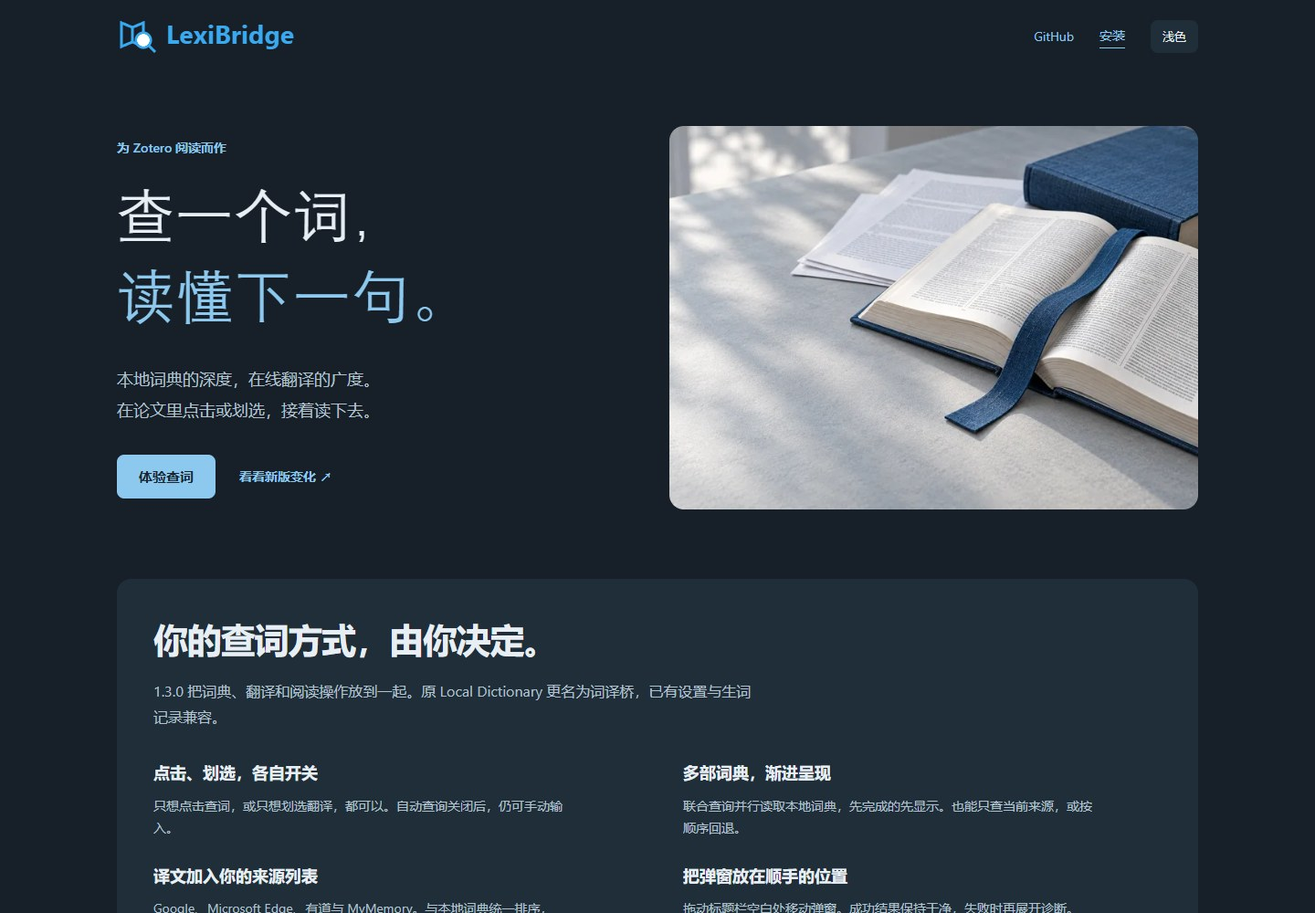
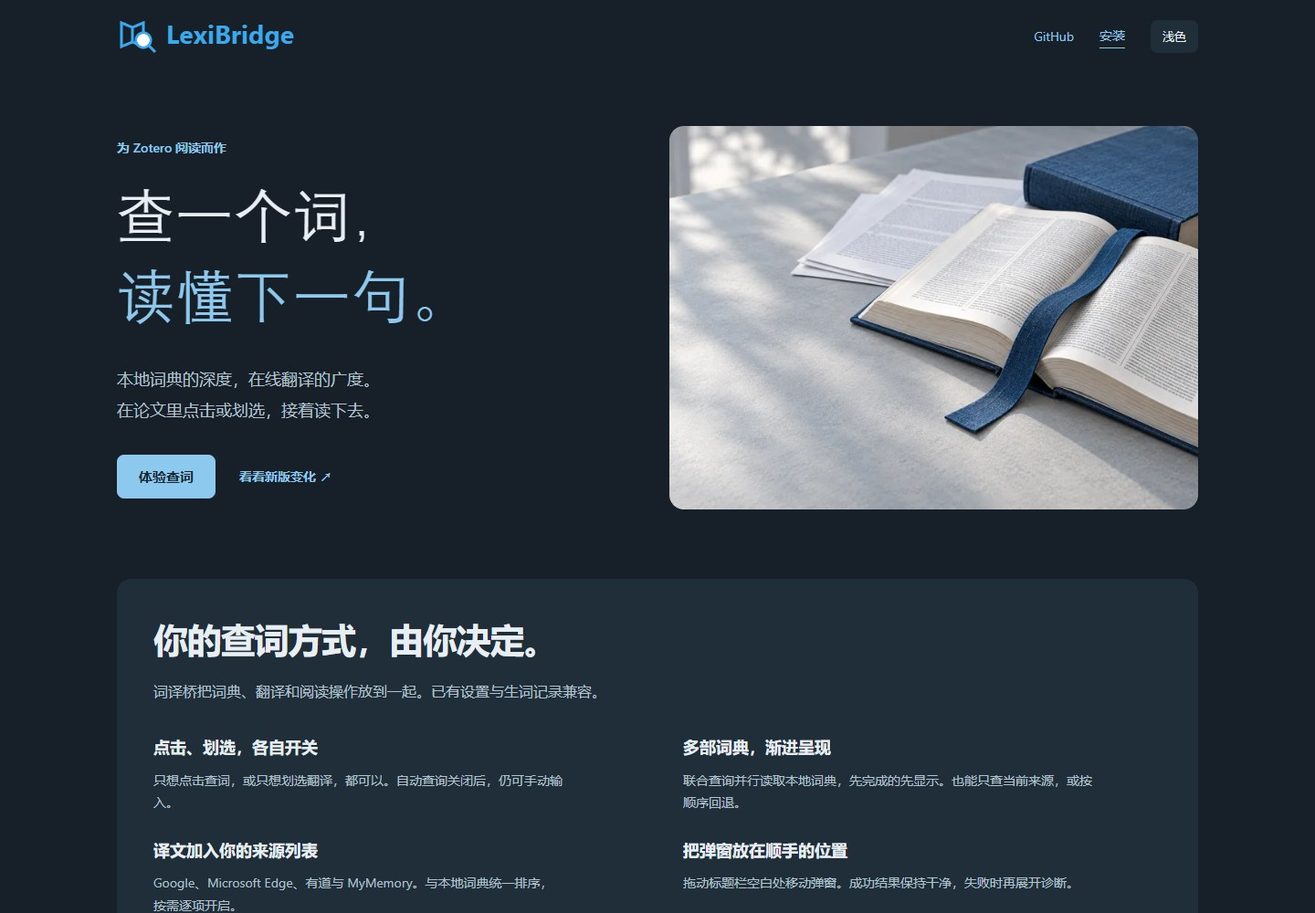
Publish LexiBridge 1.3.1 repository migration and simplify public documentation

Changed region(s): [[0.0938, 0.744, 0.5625, 1.0], [0.5, 0.806, 0.8438, 1.0]]

diff --git a/docs/lexibridge/index.html b/docs/lexibridge/index.html
@@ -3,8 +3,8 @@
 <meta charset="utf-8"><meta name="viewport" content="width=device-width,initial-scale=1">
 <title>LexiBridge 词译桥 | Zotero 查词与翻译</title>
 <meta name="description" content="在 Zotero 阅读中连接本地词典与在线翻译。独立点击与划选开关，多来源并行查询，按自己的顺序阅读释义。">
-<link rel="canonical" href="https://noahxie83.github.io/zotero-local-dictionary/lexibridge/">
-<meta property="og:title" content="LexiBridge · 词译桥"><meta property="og:description" content="查一个词，读懂下一句。Zotero 本地词典与在线翻译。"><meta property="og:image" content="https://noahxie83.github.io/zotero-local-dictionary/assets/cover.jpg">
+<link rel="canonical" href="https://noahxie83.github.io/zotero-lexibridge/lexibridge/">
+<meta property="og:title" content="LexiBridge · 词译桥"><meta property="og:description" content="查一个词，读懂下一句。Zotero 本地词典与在线翻译。"><meta property="og:image" content="https://noahxie83.github.io/zotero-lexibridge/assets/cover.jpg">
[1 lines of base64/hex data omitted]
 <style>:root{color-scheme:light;--bg:#fbfcfd;--surface:#f0f4f7;--paper:#fdfefe;--fg:#253440;--muted:#536575;--line:#d4dfe7;--accent:#246a96;--on-accent:#f8fbfe;--shadow:0 20px 64px #23435b10}
 :root[data-theme=dark]{color-scheme:dark;--bg:#172029;--surface:#202e3a;--paper:#1d2933;--fg:#e8eff4;--muted:#b1c1cd;--line:#405362;--accent:#8dc9ee;--on-accent:#172530;--shadow:0 20px 64px #0b172420}
@@ -21,18 +21,18 @@ h2{text-wrap:balance;font-size:clamp(27px,2.7vw,38px);line-height:1.35;letter-sp
 @media(max-width:374px){.wrap{padding-inline:16px}.brand img{width:146px}header nav{gap:9px}h1{font-size:43px}.button{padding-inline:18px}.hero-actions{gap:16px}.text-link{font-size:13px}.release,.online{padding:24px 20px}}
 </style></head><body>
 <a class="skip-link" href="#try">跳到查词示例</a>
[2 lines of base64/hex data omitted]
 <main class="wrap">
 <section class="lead" aria-labelledby="hero-title"><div class="hero-copy"><p class="eyebrow">为 Zotero 阅读而作</p><h1 id="hero-title"><span>查一个词，</span><span>读懂下一句。</span></h1><p class="hero-intro">本地词典的深度，在线翻译的广度。<br>在论文里点击或划选，接着读下去。</p><div class="hero-actions"><a class="button" href="#try">体验查词</a><a class="text-link" href="#whats-new">看看新版变化 ↗</a></div></div><img class="hero-image" src="../assets/reading-desk.webp" srcset="../assets/reading-desk-768.webp 768w, ../assets/reading-desk.webp 1536w" sizes="(max-width:767px) calc(100vw - 40px), (max-width:1264px) 44vw, 550px" alt="蓝色书签搭在打开的词典与研究纸页之间" width="1536" height="1024" fetchpriority="high" decoding="async"></section>
-<section class="release reveal" id="whats-new" aria-labelledby="new-title"><h2 id="new-title">你的查词方式，由你决定。</h2><p class="section-intro">1.3.0 把词典、翻译和阅读操作放到一起。原 Local Dictionary 更名为词译桥，已有设置与生词记录兼容。</p><div class="release-grid">
+<section class="release reveal" id="whats-new" aria-labelledby="new-title"><h2 id="new-title">你的查词方式，由你决定。</h2><p class="section-intro">词译桥把词典、翻译和阅读操作放到一起。已有设置与生词记录兼容。</p><div class="release-grid">
 <article><h3>点击、划选，各自开关</h3><p>只想点击查词，或只想划选翻译，都可以。自动查询关闭后，仍可手动输入。</p></article><article><h3>多部词典，渐进呈现</h3><p>联合查询并行读取本地词典，先完成的先显示。也能只查当前来源，或按顺序回退。</p></article><article><h3>译文加入你的来源列表</h3><p>Google、Microsoft Edge、有道与 MyMemory。与本地词典统一排序，按需逐项开启。</p></article><article><h3>把弹窗放在顺手的位置</h3><p>拖动标题栏空白处移动弹窗。成功结果保持干净，失败时再展开诊断。</p></article></div></section>
 <section class="demo reveal" id="try" aria-labelledby="demo-title"><h2 id="demo-title">点一下，看看词典的另一面。</h2><p class="section-intro">这是可操作的本地查词示例。点击蓝色词语，或划选词组，比较两部词典的原有排版。</p><nav class="cases" aria-label="选择使用示例"><button type="button" data-case="0" aria-pressed="true">点击一个词</button><button type="button" data-case="1" aria-pressed="false">拼接断行词</button><button type="button" data-case="2" aria-pressed="false">词组与批注</button></nav>
-<div class="workspace"><div><p class="label">阅读区 / 原创示例</p><article class="paper" id="paper"><h3>Representations<br>&amp; connections</h3><p>A <button class="word" type="button" data-word="network">network</button> connects units that exchange information. We study how representations change across its layers.</p><p>The model learns a <span class="line-word">transfor-<br>mation</span> from inputs to outputs. A <button class="word" type="button" data-word="neural network">neural network</button> combines these operations.</p><small>点击蓝色词语，或划选这里的词 / 词组。<br>真实 PDF 需有文字层；单击不会跨行补全。</small></article></div><div><p class="label">词条区 / 实际解析与排版组件</p><div id="result" aria-live="polite"></div><noscript>交互示例需要 JavaScript。使用上方安装入口获取插件。</noscript></div></div><p class="hint" id="hint" role="status"></p><a class="preview-link" href="https://noahxie83.github.io/zotero-local-dictionary/interface-preview.html">打开完整弹窗与设置页预览 ↗</a></section>
-<section class="reading-flow reveal" aria-labelledby="flow-title"><div><h2 id="flow-title">一组来源，<br>三种阅读节奏。</h2><p class="section-intro">把常用词典排在前面，再按需要加入翻译。</p><a class="text-link" href="https://github.com/Noahxie83/zotero-local-dictionary/blob/main/docs/USER_GUIDE.md">配置查询来源 ↗</a></div><div class="feature-list"><details open><summary>当前来源：专注一份释义</summary><p>只查询选中的词典或翻译引擎，适合有明确来源偏好的阅读。</p></details><details><summary>依次回退：按你的顺序继续找</summary><p>沿已启用来源的顺序查询，获得首个结果后停止。来源顺序同时适用于本地词典与在线服务。</p></details><details><summary>联合查询：把不同解释放在一起</summary><p>多个来源分别呈现结果。本地查询采用有界并发；在线请求限制并发，避免无节制发起请求。</p></details></div></section>
+<div class="workspace"><div><p class="label">阅读区 / 原创示例</p><article class="paper" id="paper"><h3>Representations<br>&amp; connections</h3><p>A <button class="word" type="button" data-word="network">network</button> connects units that exchange information. We study how representations change across its layers.</p><p>The model learns a <span class="line-word">transfor-<br>mation</span> from inputs to outputs. A <button class="word" type="button" data-word="neural network">neural network</button> combines these operations.</p><small>点击蓝色词语，或划选这里的词 / 词组。<br>真实 PDF 需有文字层；单击不会跨行补全。</small></article></div><div><p class="label">词条区 / 实际解析与排版组件</p><div id="result" aria-live="polite"></div><noscript>交互示例需要 JavaScript。使用上方安装入口获取插件。</noscript></div></div><p class="hint" id="hint" role="status"></p><a class="preview-link" href="https://noahxie83.github.io/zotero-lexibridge/interface-preview.html">打开完整弹窗与设置页预览 ↗</a></section>
+<section class="reading-flow reveal" aria-labelledby="flow-title"><div><h2 id="flow-title">一组来源，<br>三种阅读节奏。</h2><p class="section-intro">把常用词典排在前面，再按需要加入翻译。</p><a class="text-link" href="https://github.com/Noahxie83/zotero-lexibridge/blob/main/docs/USER_GUIDE.md">配置查询来源 ↗</a></div><div class="feature-list"><details open><summary>当前来源：专注一份释义</summary><p>只查询选中的词典或翻译引擎，适合有明确来源偏好的阅读。</p></details><details><summary>依次回退：按你的顺序继续找</summary><p>沿已启用来源的顺序查询，获得首个结果后停止。来源顺序同时适用于本地词典与在线服务。</p></details><details><summary>联合查询：把不同解释放在一起</summary><p>多个来源分别呈现结果。本地查询采用有界并发；在线请求限制并发，避免无节制发起请求。</p></details></div></section>
 <section class="online reveal" aria-labelledby="online-title"><h2 id="online-title">需要翻译时，再连接网络。</h2><p class="section-intro">四种服务默认关闭，无需在插件中填写 API 密钥。开启某个来源后，查询文本才会发送给对应服务。</p><div class="engine-list"><span>Google 翻译</span><span>Microsoft Edge</span><span>有道网页体验</span><span>MyMemory <small>英 → 简中</small></span></div><p class="service-note">在线接口为实验性服务，可能变化、限流或因网络不可用。查询上限为 256 字符、16 个词，适合单词、词组与短句。网页示例不发送翻译请求。</p></section>
-<section class="formats reveal" aria-labelledby="formats-title"><h2 id="formats-title">已有的词典，继续陪你读。</h2><p class="section-intro">保留本地 HTML/CSS 排版、配套图片与发音，也能切换成简洁文字。</p><table><caption>支持的本地词典格式</caption><thead><tr><th scope="col">格式</th><th scope="col">入口</th><th scope="col">配套资源</th></tr></thead><tbody><tr><td>MDX</td><td>.mdx</td><td>MDD 分卷、外置 CSS、图片与音频。</td></tr><tr><td>StarDict</td><td>.ifo</td><td>IDX / DICT、压缩索引、Dictzip 与同义词。</td></tr><tr><td>DSL</td><td>.dsl / .dsl.dz</td><td>常见标记、词条引用及外置资源。</td></tr></tbody></table><a class="text-link" href="https://github.com/Noahxie83/zotero-local-dictionary/blob/main/docs/FORMAT_SUPPORT.md">查看格式支持范围 ↗</a></section>
-<section class="start reveal" aria-labelledby="start-title"><h2 id="start-title">让查词留在阅读里。</h2><p>安装插件，添加词典。在线翻译按需开启。</p><div class="hero-actions"><a class="button" href="https://github.com/Noahxie83/zotero-local-dictionary/blob/main/docs/USER_GUIDE.md">阅读使用指南</a><a class="text-link" href="https://github.com/Noahxie83/zotero-local-dictionary/blob/main/docs/RESTORE.md">升级与恢复设置</a></div></section></main>
-<footer class="wrap"><div class="footer-brand">LexiBridge <span>词译桥</span></div><div class="links"><a href="https://github.com/Noahxie83/zotero-local-dictionary/blob/main/docs/CHANGES.md">版本变更</a><a href="https://github.com/Noahxie83/zotero-local-dictionary/blob/main/docs/RESTORE.md">恢复设置教程</a><a href="https://www.pdawiki.com/forum/forum.php?gid=7">PDAWiki · MDict 专区</a></div><p>原 Local Dictionary / Local MDX。示例词条、样式、图形和提示音由本项目自行生成。提示音不是单词发音；没有包含商业词典、没有接入在线翻译、不会读写 Zotero 文献库。页面可下载后离线打开。词译桥是独立插件，非 Zotero 官方产品。</p><details><summary>开源许可与第三方来源</summary><pre>LexiBridge - GPL-3.0-or-later
+<section class="formats reveal" aria-labelledby="formats-title"><h2 id="formats-title">已有的词典，继续陪你读。</h2><p class="section-intro">保留本地 HTML/CSS 排版、配套图片与发音，也能切换成简洁文字。</p><table><caption>支持的本地词典格式</caption><thead><tr><th scope="col">格式</th><th scope="col">入口</th><th scope="col">配套资源</th></tr></thead><tbody><tr><td>MDX</td><td>.mdx</td><td>MDD 分卷、外置 CSS、图片与音频。</td></tr><tr><td>StarDict</td><td>.ifo</td><td>IDX / DICT、压缩索引、Dictzip 与同义词。</td></tr><tr><td>DSL</td><td>.dsl / .dsl.dz</td><td>常见标记、词条引用及外置资源。</td></tr></tbody></table><a class="text-link" href="https://github.com/Noahxie83/zotero-lexibridge/blob/main/docs/FORMAT_SUPPORT.md">查看格式支持范围 ↗</a></section>
+<section class="start reveal" aria-labelledby="start-title"><h2 id="start-title">让查词留在阅读里。</h2><p>安装插件，添加词典。在线翻译按需开启。</p><div class="hero-actions"><a class="button" href="https://github.com/Noahxie83/zotero-lexibridge/blob/main/docs/USER_GUIDE.md">阅读使用指南</a><a class="text-link" href="https://github.com/Noahxie83/zotero-lexibridge/blob/main/docs/RESTORE.md">升级与恢复设置</a></div></section></main>
+<footer class="wrap"><div class="footer-brand">LexiBridge <span>词译桥</span></div><div class="links"><a href="https://github.com/Noahxie83/zotero-lexibridge/blob/main/docs/CHANGES.md">版本变更</a><a href="https://github.com/Noahxie83/zotero-lexibridge/blob/main/docs/RESTORE.md">恢复设置教程</a><a href="https://www.pdawiki.com/forum/forum.php?gid=7">PDAWiki · MDict 专区</a></div><p>示例词条、样式、图形和提示音由本项目自行生成。提示音不是单词发音；没有包含商业词典、没有接入在线翻译、不会读写 Zotero 文献库。页面可下载后离线打开。词译桥是独立插件，非 Zotero 官方产品。</p><details><summary>开源许可与第三方来源</summary><pre>LexiBridge - GPL-3.0-or-later
                     GNU GENERAL PUBLIC LICENSE
                        Version 3, 29 June 2007
 

diff --git a/examples/template.html b/examples/template.html
@@ -3,21 +3,21 @@
 <meta charset="utf-8"><meta name="viewport" content="width=device-width,initial-scale=1">
 <title>LexiBridge 词译桥 | Zotero 查词与翻译</title>
 <meta name="description" content="在 Zotero 阅读中连接本地词典与在线翻译。独立点击与划选开关，多来源并行查询，按自己的顺序阅读释义。">
-<link rel="canonical" href="https://noahxie83.github.io/zotero-local-dictionary/lexibridge/">
-<meta property="og:title" content="LexiBridge · 词译桥"><meta property="og:description" content="查一个词，读懂下一句。Zotero 本地词典与在线翻译。"><meta property="og:image" content="https://noahxie83.github.io/zotero-local-dictionary/assets/cover.jpg">
+<link rel="canonical" href="https://noahxie83.github.io/zotero-lexibridge/lexibridge/">
+<meta property="og:title" content="LexiBridge · 词译桥"><meta property="og:description" content="查一个词，读懂下一句。Zotero 本地词典与在线翻译。"><meta property="og:image" content="https://noahxie83.github.io/zotero-lexibridge/assets/cover.jpg">
 <meta name="theme-color" content="#246a96"><link rel="icon" href="__ICON__" type="image/svg+xml">
 <style>__SITE_CSS__</style></head><body>
 <a class="skip-link" href="#try">跳到查词示例</a>
-<header class="wrap"><a class="brand" href="https://github.com/Noahxie83/zotero-local-dictionary"><img src="__WORDMARK__" width="245" height="48" alt="LexiBridge 词译桥"></a><nav aria-label="主要导航"><a href="https://github.com/Noahxie83/zotero-local-dictionary">GitHub</a><a class="install" href="https://github.com/Noahxie83/zotero-local-dictionary/releases">安装</a><button class="theme-toggle" id="theme-toggle" type="button" aria-label="切换至深色主题">深色</button></nav></header>
+<header class="wrap"><a class="brand" href="https://github.com/Noahxie83/zotero-lexibridge"><img src="__WORDMARK__" width="245" height="48" alt="LexiBridge 词译桥"></a><nav aria-label="主要导航"><a href="https://github.com/Noahxie83/zotero-lexibridge">GitHub</a><a class="install" href="https://github.com/Noahxie83/zotero-lexibridge/releases">安装</a><button class="theme-toggle" id="theme-toggle" type="button" aria-label="切换至深色主题">深色</button></nav></header>
 <main class="wrap">
 <section class="lead" aria-labelledby="hero-title"><div class="hero-copy"><p class="eyebrow">为 Zotero 阅读而作</p><h1 id="hero-title"><span>查一个词，</span><span>读懂下一句。</span></h1><p class="hero-intro">本地词典的深度，在线翻译的广度。<br>在论文里点击或划选，接着读下去。</p><div class="hero-actions"><a class="button" href="#try">体验查词</a><a class="text-link" href="#whats-new">看看新版变化 ↗</a></div></div><img class="hero-image" src="__HERO_IMAGE__" alt="蓝色书签搭在打开的词典与研究纸页之间" width="1536" height="1024" fetchpriority="high" decoding="async"></section>
-<section class="release reveal" id="whats-new" aria-labelledby="new-title"><h2 id="new-title">你的查词方式，由你决定。</h2><p class="section-intro">1.3.0 把词典、翻译和阅读操作放到一起。原 Local Dictionary 更名为词译桥，已有设置与生词记录兼容。</p><div class="release-grid">
+<section class="release reveal" id="whats-new" aria-labelledby="new-title"><h2 id="new-title">你的查词方式，由你决定。</h2><p class="section-intro">词译桥把词典、翻译和阅读操作放到一起。已有设置与生词记录兼容。</p><div class="release-grid">
 <article><h3>点击、划选，各自开关</h3><p>只想点击查词，或只想划选翻译，都可以。自动查询关闭后，仍可手动输入。</p></article><article><h3>多部词典，渐进呈现</h3><p>联合查询并行读取本地词典，先完成的先显示。也能只查当前来源，或按顺序回退。</p></article><article><h3>译文加入你的来源列表</h3><p>Google、Microsoft Edge、有道与 MyMemory。与本地词典统一排序，按需逐项开启。</p></article><article><h3>把弹窗放在顺手的位置</h3><p>拖动标题栏空白处移动弹窗。成功结果保持干净，失败时再展开诊断。</p></article></div></section>
 <section class="demo reveal" id="try" aria-labelledby="demo-title"><h2 id="demo-title">点一下，看看词典的另一面。</h2><p class="section-intro">这是可操作的本地查词示例。点击蓝色词语，或划选词组，比较两部词典的原有排版。</p><nav class="cases" aria-label="选择使用示例"><button type="button" data-case="0" aria-pressed="true">点击一个词</button><button type="button" data-case="1" aria-pressed="false">拼接断行词</button><button type="button" data-case="2" aria-pressed="false">词组与批注</button></nav>
-<div class="workspace"><div><p class="label">阅读区 / 原创示例</p><article class="paper" id="paper"><h3>Representations<br>&amp; connections</h3><p>A <button class="word" type="button" data-word="network">network</button> connects units that exchange information. We study how representations change across its layers.</p><p>The model learns a <span class="line-word">transfor-<br>mation</span> from inputs to outputs. A <button class="word" type="button" data-word="neural network">neural network</button> combines these operations.</p><small>点击蓝色词语，或划选这里的词 / 词组。<br>真实 PDF 需有文字层；单击不会跨行补全。</small></article></div><div><p class="label">词条区 / 实际解析与排版组件</p><div id="result" aria-live="polite"></div><noscript>交互示例需要 JavaScript。使用上方安装入口获取插件。</noscript></div></div><p class="hint" id="hint" role="status"></p><a class="preview-link" href="https://noahxie83.github.io/zotero-local-dictionary/interface-preview.html">打开完整弹窗与设置页预览 ↗</a></section>
-<section class="reading-flow reveal" aria-labelledby="flow-title"><div><h2 id="flow-title">一组来源，<br>三种阅读节奏。</h2><p class="section-intro">把常用词典排在前面，再按需要加入翻译。</p><a class="text-link" href="https://github.com/Noahxie83/zotero-local-dictionary/blob/main/docs/USER_GUIDE.md">配置查询来源 ↗</a></div><div class="feature-list"><details open><summary>当前来源：专注一份释义</summary><p>只查询选中的词典或翻译引擎，适合有明确来源偏好的阅读。</p></details><details><summary>依次回退：按你的顺序继续找</summary><p>沿已启用来源的顺序查询，获得首个结果后停止。来源顺序同时适用于本地词典与在线服务。</p></details><details><summary>联合查询：把不同解释放在一起</summary><p>多个来源分别呈现结果。本地查询采用有界并发；在线请求限制并发，避免无节制发起请求。</p></details></div></section>
+<div class="workspace"><div><p class="label">阅读区 / 原创示例</p><article class="paper" id="paper"><h3>Representations<br>&amp; connections</h3><p>A <button class="word" type="button" data-word="network">network</button> connects units that exchange information. We study how representations change across its layers.</p><p>The model learns a <span class="line-word">transfor-<br>mation</span> from inputs to outputs. A <button class="word" type="button" data-word="neural network">neural network</button> combines these operations.</p><small>点击蓝色词语，或划选这里的词 / 词组。<br>真实 PDF 需有文字层；单击不会跨行补全。</small></article></div><div><p class="label">词条区 / 实际解析与排版组件</p><div id="result" aria-live="polite"></div><noscript>交互示例需要 JavaScript。使用上方安装入口获取插件。</noscript></div></div><p class="hint" id="hint" role="status"></p><a class="preview-link" href="https://noahxie83.github.io/zotero-lexibridge/interface-preview.html">打开完整弹窗与设置页预览 ↗</a></section>
+<section class="reading-flow reveal" aria-labelledby="flow-title"><div><h2 id="flow-title">一组来源，<br>三种阅读节奏。</h2><p class="section-intro">把常用词典排在前面，再按需要加入翻译。</p><a class="text-link" href="https://github.com/Noahxie83/zotero-lexibridge/blob/main/docs/USER_GUIDE.md">配置查询来源 ↗</a></div><div class="feature-list"><details open><summary>当前来源：专注一份释义</summary><p>只查询选中的词典或翻译引擎，适合有明确来源偏好的阅读。</p></details><details><summary>依次回退：按你的顺序继续找</summary><p>沿已启用来源的顺序查询，获得首个结果后停止。来源顺序同时适用于本地词典与在线服务。</p></details><details><summary>联合查询：把不同解释放在一起</summary><p>多个来源分别呈现结果。本地查询采用有界并发；在线请求限制并发，避免无节制发起请求。</p></details></div></section>
 <section class="online reveal" aria-labelledby="online-title"><h2 id="online-title">需要翻译时，再连接网络。</h2><p class="section-intro">四种服务默认关闭，无需在插件中填写 API 密钥。开启某个来源后，查询文本才会发送给对应服务。</p><div class="engine-list"><span>Google 翻译</span><span>Microsoft Edge</span><span>有道网页体验</span><span>MyMemory <small>英 → 简中</small></span></div><p class="service-note">在线接口为实验性服务，可能变化、限流或因网络不可用。查询上限为 256 字符、16 个词，适合单词、词组与短句。网页示例不发送翻译请求。</p></section>
-<section class="formats reveal" aria-labelledby="formats-title"><h2 id="formats-title">已有的词典，继续陪你读。</h2><p class="section-intro">保留本地 HTML/CSS 排版、配套图片与发音，也能切换成简洁文字。</p><table><caption>支持的本地词典格式</caption><thead><tr><th scope="col">格式</th><th scope="col">入口</th><th scope="col">配套资源</th></tr></thead><tbody><tr><td>MDX</td><td>.mdx</td><td>MDD 分卷、外置 CSS、图片与音频。</td></tr><tr><td>StarDict</td><td>.ifo</td><td>IDX / DICT、压缩索引、Dictzip 与同义词。</td></tr><tr><td>DSL</td><td>.dsl / .dsl.dz</td><td>常见标记、词条引用及外置资源。</td></tr></tbody></table><a class="text-link" href="https://github.com/Noahxie83/zotero-local-dictionary/blob/main/docs/FORMAT_SUPPORT.md">查看格式支持范围 ↗</a></section>
-<section class="start reveal" aria-labelledby="start-title"><h2 id="start-title">让查词留在阅读里。</h2><p>安装插件，添加词典。在线翻译按需开启。</p><div class="hero-actions"><a class="button" href="https://github.com/Noahxie83/zotero-local-dictionary/blob/main/docs/USER_GUIDE.md">阅读使用指南</a><a class="text-link" href="https://github.com/Noahxie83/zotero-local-dictionary/blob/main/docs/RESTORE.md">升级与恢复设置</a></div></section></main>
-<footer class="wrap"><div class="footer-brand">LexiBridge <span>词译桥</span></div><div class="links"><a href="https://github.com/Noahxie83/zotero-local-dictionary/blob/main/docs/CHANGES.md">版本变更</a><a href="https://github.com/Noahxie83/zotero-local-dictionary/blob/main/docs/RESTORE.md">恢复设置教程</a><a href="https://www.pdawiki.com/forum/forum.php?gid=7">PDAWiki · MDict 专区</a></div><p>原 Local Dictionary / Local MDX。示例词条、样式、图形和提示音由本项目自行生成。提示音不是单词发音；没有包含商业词典、没有接入在线翻译、不会读写 Zotero 文献库。页面可下载后离线打开。词译桥是独立插件，非 Zotero 官方产品。</p><details><summary>开源许可与第三方来源</summary><pre>__LICENSES__</pre></details></footer>
+<section class="formats reveal" aria-labelledby="formats-title"><h2 id="formats-title">已有的词典，继续陪你读。</h2><p class="section-intro">保留本地 HTML/CSS 排版、配套图片与发音，也能切换成简洁文字。</p><table><caption>支持的本地词典格式</caption><thead><tr><th scope="col">格式</th><th scope="col">入口</th><th scope="col">配套资源</th></tr></thead><tbody><tr><td>MDX</td><td>.mdx</td><td>MDD 分卷、外置 CSS、图片与音频。</td></tr><tr><td>StarDict</td><td>.ifo</td><td>IDX / DICT、压缩索引、Dictzip 与同义词。</td></tr><tr><td>DSL</td><td>.dsl / .dsl.dz</td><td>常见标记、词条引用及外置资源。</td></tr></tbody></table><a class="text-link" href="https://github.com/Noahxie83/zotero-lexibridge/blob/main/docs/FORMAT_SUPPORT.md">查看格式支持范围 ↗</a></section>
+<section class="start reveal" aria-labelledby="start-title"><h2 id="start-title">让查词留在阅读里。</h2><p>安装插件，添加词典。在线翻译按需开启。</p><div class="hero-actions"><a class="button" href="https://github.com/Noahxie83/zotero-lexibridge/blob/main/docs/USER_GUIDE.md">阅读使用指南</a><a class="text-link" href="https://github.com/Noahxie83/zotero-lexibridge/blob/main/docs/RESTORE.md">升级与恢复设置</a></div></section></main>
+<footer class="wrap"><div class="footer-brand">LexiBridge <span>词译桥</span></div><div class="links"><a href="https://github.com/Noahxie83/zotero-lexibridge/blob/main/docs/CHANGES.md">版本变更</a><a href="https://github.com/Noahxie83/zotero-lexibridge/blob/main/docs/RESTORE.md">恢复设置教程</a><a href="https://www.pdawiki.com/forum/forum.php?gid=7">PDAWiki · MDict 专区</a></div><p>示例词条、样式、图形和提示音由本项目自行生成。提示音不是单词发音；没有包含商业词典、没有接入在线翻译、不会读写 Zotero 文献库。页面可下载后离线打开。词译桥是独立插件，非 Zotero 官方产品。</p><details><summary>开源许可与第三方来源</summary><pre>__LICENSES__</pre></details></footer>
 <script>window.localMDXDemoData=__DATA__;</script><script>__BUNDLE__</script><script>__PAGE_SCRIPT__</script></body></html>

diff --git a/src/settings-backup.js b/src/settings-backup.js
@@ -5,7 +5,7 @@ import { validateSources } from './source-settings.js';
 export const SETTING_KEYS = ['enabled', 'clickEnabled', 'selectionEnabled', 'selectionMenu', 'annotationColor', 'path', 'folder', 'directories', 'dictionaryOrder', 'sources', 'selectedSource', 'recursive', 'displayMode', 'resources', 'wordForms', 'queryMode', 'vocabulary', 'theme', 'fontSize', 'popupWidth', 'popupHeight', 'pronunciation'];
 const enumValues = { selectionMenu: ['integrated', 'native'], displayMode: ['original', 'text'], queryMode: ['single', 'fallback', 'all'], theme: ['original', 'light', 'dark'], pronunciation: ['first', 'uk', 'us'] };
 export function validateSettings(backup) {
-  if (!backup || !['local-dictionary-settings', 'local-mdx-settings'].includes(backup.format) || backup.version !== 1 || !backup.settings || typeof backup.settings !== 'object' || Array.isArray(backup.settings)) throw new Error('这不是支持的 Local Dictionary 备份。');
+  if (!backup || !['local-dictionary-settings', 'local-mdx-settings'].includes(backup.format) || backup.version !== 1 || !backup.settings || typeof backup.settings !== 'object' || Array.isArray(backup.settings)) throw new Error('这不是支持的词译桥备份。');
   const result = Object.create(null);
   for (const key of SETTING_KEYS) {
     if (!Object.hasOwn(backup.settings, key)) continue;

diff --git a/docs/index.html b/docs/index.html
@@ -1,1 +1,1 @@
-<!doctype html><html lang="zh-CN"><meta charset="utf-8"><meta name="viewport" content="width=device-width,initial-scale=1"><meta name="robots" content="noindex"><meta http-equiv="refresh" content="0;url=./lexibridge/"><link rel="canonical" href="https://noahxie83.github.io/zotero-local-dictionary/lexibridge/"><title>LexiBridge 词译桥</title><script>location.replace('./lexibridge/'+location.search+location.hash)</script><p>Local Dictionary 已更名为词译桥。<a href="./lexibridge/">打开新展示页</a></p></html>
+<!doctype html><html lang="zh-CN"><meta charset="utf-8"><meta name="viewport" content="width=device-width,initial-scale=1"><meta name="robots" content="noindex"><meta http-equiv="refresh" content="0;url=./lexibridge/"><link rel="canonical" href="https://noahxie83.github.io/zotero-lexibridge/lexibridge/"><title>LexiBridge 词译桥</title><script>location.replace('./lexibridge/'+location.search+location.hash)</script><p><a href="./lexibridge/">打开新展示页</a></p></html>

diff --git a/README.md b/README.md
@@ -1,24 +1,22 @@
-<p align="right"><a href="https://github.com/Noahxie83"><sub>Noah Xie · Personal profile</sub></a></p>
-
 <p align="center"><img src="docs/assets/cover.jpg" alt="LexiBridge 词译桥：查一个词，读懂下一句。在 Zotero 中连接本地词典与在线翻译。" width="100%"></p>
 
 <h1 align="center">LexiBridge · 词译桥</h1>
 <p align="center"><b>Zotero 查词与翻译插件</b><br>本地词典的深度，在线翻译的广度。查词、译句、批注，留在阅读里。</p>
 <p align="center">
-  <a href="RELEASE_NOTES.md"><img alt="版本 1.3.0" src="https://img.shields.io/badge/1.3.0-词译桥-246a96?style=flat-square"></a>
+  <a href="RELEASE_NOTES.md"><img alt="版本 1.3.1" src="https://img.shields.io/badge/1.3.1-词译桥-246a96?style=flat-square"></a>
   <img alt="支持 Zotero 10.0 系列" src="https://img.shields.io/badge/Zotero-10.0-536575?style=flat-square">
-  <a href="https://github.com/Noahxie83/zotero-local-dictionary/actions/workflows/build.yml"><img alt="构建状态" src="https://github.com/Noahxie83/zotero-local-dictionary/actions/workflows/build.yml/badge.svg"></a>
+  <a href="https://github.com/Noahxie83/zotero-lexibridge/actions/workflows/build.yml"><img alt="构建状态" src="https://github.com/Noahxie83/zotero-lexibridge/actions/workflows/build.yml/badge.svg"></a>
   <a href="LICENSE"><img alt="GPL 3.0 or later" src="https://img.shields.io/badge/license-GPL--3.0--or--later-536575?style=flat-square"></a>
 </p>
 <p align="center">
-  <a href="https://github.com/Noahxie83/zotero-local-dictionary/releases"><img alt="下载安装包" src="docs/assets/button-download.svg" height="40"></a>
-  <a href="https://noahxie83.github.io/zotero-local-dictionary/lexibridge/"><img alt="体验交互示例" src="docs/assets/button-demo.svg" height="40"></a>
+  <a href="https://github.com/Noahxie83/zotero-lexibridge/releases"><img alt="下载安装包" src="docs/assets/button-download.svg" height="40"></a>
+  <a href="https://noahxie83.github.io/zotero-lexibridge/lexibridge/"><img alt="体验交互示例" src="docs/assets/button-demo.svg" height="40"></a>
   <a href="docs/USER_GUIDE.md"><img alt="阅读使用指南" src="docs/assets/button-guide.svg" height="40"></a>
 </p>
 
-**LexiBridge（词译桥）** 原名 Local Dictionary / Local MDX。在 Zotero PDF 阅读器中查询 MDX、StarDict、DSL 本地词典，也可按需开启在线翻译。插件 ID 与设置命名空间保留，支持覆盖升级，原有词典路径、生词和资源配置继续使用。
+**LexiBridge（词译桥）** 在 Zotero PDF 阅读器中查询 MDX、StarDict、DSL 本地词典，也可按需开启在线翻译。支持覆盖升级，原有词典路径、生词和资源配置继续使用。
 
-## 1.3.0 有什么新变化
+## 1.3 系列有什么新变化
 
 - **查词与翻译，共用一组来源。** 加入 Google、Microsoft Edge、有道和 MyMemory，无需填写 API 密钥。在线服务默认关闭，逐项开启。
 - **按你的顺序查询。** 本地词典与翻译引擎统一排序；可查当前来源、依次回退，或联合显示多个来源。
@@ -28,13 +26,13 @@
 - **成功结果更干净。** 本地与在线来源成功时不显示诊断区域；未命中、出错或限流时只显示对应来源的诊断。
 - **关闭阅读器后仍可继续使用。** 修复失效工具栏节点阻断后续界面更新的问题。
 
-详见 [完整版本变更](docs/CHANGES.md) 与 [升级说明](docs/UPGRADE_1.3.0.md)。
+1.3.1 统一项目名称与仓库地址，并精简公开说明。详见 [完整版本变更](docs/CHANGES.md) 与 [升级说明](docs/UPGRADE_1.3.1.md)。
 
 ## 看看实际操作
 
 <p align="center"><img src="docs/assets/lookup-demo.gif" alt="网页示例：点击 network 查询本地词典，切换词典排版，再查看词组与批注工具" width="960"></p>
 
-动图录自网页中的**实际插件解析与排版组件**，使用项目原创词条；不代表真实在线请求或 Zotero 宿主录像。可 [打开交互示例](https://noahxie83.github.io/zotero-local-dictionary/lexibridge/) 自己操作，也可 [预览完整弹窗与设置页](https://noahxie83.github.io/zotero-local-dictionary/interface-preview.html)。网页批注只演示反馈，音频为提示音，不会写入文献库或调用翻译服务。
+动图录自网页中的**实际插件解析与排版组件**，使用项目原创词条；不代表真实在线请求或 Zotero 宿主录像。可 [打开交互示例](https://noahxie83.github.io/zotero-lexibridge/lexibridge/) 自己操作，也可 [预览完整弹窗与设置页](https://noahxie83.github.io/zotero-lexibridge/interface-preview.html)。网页批注只演示反馈，音频为提示音，不会写入文献库或调用翻译服务。
 
 <details>
 <summary>查看静态图与深色效果</summary>
@@ -71,7 +69,7 @@
 
 ## 快速开始
 
-**安装插件。** 从 [GitHub Releases](https://github.com/Noahxie83/zotero-local-dictionary/releases) 下载对应版本的 XPI。在 Zotero 中选择 **工具 → 插件 → 齿轮 → 从文件安装插件**，选择安装包。若提示重启，重启 Zotero。本地构建的 1.3.0 成品位于 `dist/lexibridge-1.3.0.xpi`；公开可下载版本以 Releases 为准。
+**安装插件。** 从 [GitHub Releases](https://github.com/Noahxie83/zotero-lexibridge/releases) 下载对应版本的 XPI。在 Zotero 中选择 **工具 → 插件 → 齿轮 → 从文件安装插件**，选择安装包。若提示重启，重启 Zotero。本地构建的 1.3.1 成品位于 `dist/lexibridge-1.3.1.xpi`；公开可下载版本以 Releases 为准。
 
 **准备来源。** 打开 **设置 → 词译桥**，添加词典目录或入口文件，开启需要的来源并调整顺序。只用在线翻译时无需添加本地词典。插件不附带商业词典。
 
@@ -106,9 +104,9 @@
 ## 常见问题
 
 <details>
-<summary>升级或改名会丢失设置吗？</summary>
+<summary>升级会丢失设置吗？</summary>
 
-插件仍使用原 ID `local-mdx-click@noahx.local`，保留原偏好命名空间和备份格式。覆盖升级保留原设置；升级前仍可主动导出设置备份。仓库地址保持稳定，原展示页首页跳转至新页面。
+覆盖升级会保留词典目录、资源配置、生词记录和查询设置。也可以在设置中主动导出备份，再于其他设备导入。
 
 </details>
 <details>

diff --git a/docs/REPOSITORY_RENAME.md b/docs/REPOSITORY_RENAME.md
@@ -1,37 +1,25 @@
-# 仓库改名与插件收录 · 1.2.2
+# 项目地址与插件收录
 
-GitHub 仓库由 `Noahxie83/zotero-local-mdx-click` 更名为 **`Noahxie83/zotero-local-dictionary`**，与 MDX、StarDict、DSL 多格式支持及 Local Dictionary 产品名称一致。
-
-> 2026-10-15 补记：产品已更名为 LexiBridge · 词译桥，仓库地址保持不变。下方是 1.2.2 迁移的历史记录。现有上游条目已可通过重定向抓取当前仓库，无需重复收录；本次检查见 [1.3.0 交付](DELIVERY_1.3.0.md)。新展示页为 [/lexibridge/](https://noahxie83.github.io/zotero-local-dictionary/lexibridge/)。
+LexiBridge · 词译桥的仓库、下载、自动更新与网页入口统一使用 `zotero-lexibridge`。
 
 ## 当前入口
 
-- [GitHub 仓库](https://github.com/Noahxie83/zotero-local-dictionary)
-- [安装包与历史版本](https://github.com/Noahxie83/zotero-local-dictionary/releases)
-- [在线查词示例](https://noahxie83.github.io/zotero-local-dictionary/)
-- [弹窗与设置页预览](https://noahxie83.github.io/zotero-local-dictionary/interface-preview.html)
-- [插件更新清单](https://raw.githubusercontent.com/Noahxie83/zotero-local-dictionary/main/updates.json)
+- [GitHub 仓库](https://github.com/Noahxie83/zotero-lexibridge)
+- [安装包与历史版本](https://github.com/Noahxie83/zotero-lexibridge/releases)
+- [交互示例](https://noahxie83.github.io/zotero-lexibridge/lexibridge/)
+- [弹窗与设置预览](https://noahxie83.github.io/zotero-lexibridge/interface-preview.html)
+- [自动更新清单](https://raw.githubusercontent.com/Noahxie83/zotero-lexibridge/main/updates.json)
 
-## 已有安装与链接
+## 升级兼容
 
-插件 ID 继续使用 `local-mdx-click@noahx.local`，偏好命名空间和兼容 API 别名保留。1.2.2 安装包使用新的更新地址，可覆盖安装并保留词典设置和生词数据。
+仓库改名会保留 GitHub 的提交、议题、历史 Release 与收藏。旧仓库和 Git 操作会重定向，新版安装包直接使用当前仓库的更新清单。插件身份、设置前缀和备份格式保持兼容，因此覆盖升级保留词典配置与生词记录。
 
-[GitHub 的改名规则](https://docs.github.com/en/repositories/creating-and-managing-repositories/renaming-a-repository)说明旧仓库链接和 Git 操作会重定向；GitHub Pages 项目网址不在这项保障范围内，请使用上面的新网站地址。不要新建同名的 `zotero-local-mdx-click` 仓库，否则会破坏旧仓库链接的重定向。
+GitHub 不保证项目 Pages 网址随仓库改名跳转。按维护者选择，仅维护上方的新网页地址，不额外建立跳转仓库。不要重新占用旧仓库名，以免破坏已有下载和更新链接的仓库重定向。参考 [GitHub 官方改名说明](https://docs.github.com/en/repositories/creating-and-managing-repositories/renaming-a-repository)。
 
-## zotero-addons-scraper 收录
+## 上游收录
 
-按 [上游贡献规则](https://github.com/syt2/zotero-addons-scraper#contributing)，收录入口采用 `addons/{owner}@{repo}` 文件名，可选最多两个标签。现有收录记录来自已合并的 [PR #259](https://github.com/syt2/zotero-addons-scraper/pull/259)，内容为 `{"tags": ["reader"]}`。
+上游使用 `addons/{owner}@{repo}` 文件名确定抓取仓库。此次只把既有收录条目改为 `addons/Noahxie83@zotero-lexibridge`，保留 `reader` 标签，不重复新增插件。
 
-上游应将 `addons/Noahxie83@zotero-local-mdx-click` 重命名为 `addons/Noahxie83@zotero-local-dictionary`，保留原 `reader` 标签，并替换旧条目，避免同时留下两个入口。对应的 [改名补丁](integrations/zotero-addons-scraper-rename.patch) 已准备；本项目发布不会自动修改上游收录文件，上游合并与刷新需另行完成。
+`Noahxie83/zotero-addons-scraper` 是提交上游贡献所用的 fork，不是本插件的独立抓取服务。本次条目改名需要通过该 fork 提交 PR；上游合并前保留，以维持审核分支。上游合并和下一次数据刷新是两个阶段，提交 PR 不代表公开列表已更新。
 
-[抓取器](https://github.com/syt2/zotero-addons-scraper/blob/master/src/zotero_scraper/services/cache_builder.py)读取 GitHub Releases，优先选择类型为 `application/x-xpinstall` 的文件，再解析根目录的 `manifest.json`。显示名称、版本、插件 ID、Zotero 版本范围和更新地址由安装包提供，不要求安装包文件名与仓库名一致。发布时保留 XPI 文件类型，并保持安装包、更新清单及其 SHA256 校验一致。
-
-本插件声明支持 Zotero `10.0`–`10.0.*`。仓库改名不会扩大这个范围，也不需要更换插件 ID。
-
-## 迁移验证（2026-10-10）
-
-- 78 项自动测试通过，插件及网站重新构建成功。
-- 改名后，旧仓库 API 和旧 Release 下载链接返回重定向，目标可正常访问；旧名称的原始更新清单也返回 HTTP 200。
-- 当前已发布的 1.2.1 XPI 类型为 `application/x-xpinstall`，符合上游优先选择规则。上游公开列表仍显示 1.1.3；当日最近一次抓取早于 1.2.1 发布，因此不能将该列表视为最新发布验证。
-
-这些是迁移时的实测结果。上游改名补丁尚未提交或合并，不代表上游列表已经刷新。
+迁移检查与上游 PR 链接记录在 `docs/verification/repository-migration-1.3.1.json`。

diff --git a/RELEASE_NOTES.md b/RELEASE_NOTES.md
@@ -1,6 +1,15 @@
-# 1.3.0 · LexiBridge 词译桥
+# 1.3.1 · 项目地址统一
 
-Local Dictionary 更名为 **LexiBridge · 词译桥**，在 Zotero 中连接本地词典与在线翻译。保留插件 ID、词典路径、资源配置、生词记录和旧备份格式，支持覆盖升级。
+- 仓库、下载、自动更新和展示页统一使用 `zotero-lexibridge`。
+- README 精简历史名称和内部标识，移除个人主页入口。
+- 支持覆盖升级，保留词典目录、资源配置、生词与查询设置。
+- 设置备份格式不变，导入错误提示使用当前产品名称。
+
+安装 `lexibridge-1.3.1.xpi`，如 Zotero 提示则重启。详见 [升级说明](docs/UPGRADE_1.3.1.md)。此前版本的安装包和校验和保持原样。
+
+## 1.3.0 · LexiBridge 词译桥
+
+**LexiBridge · 词译桥** 在 Zotero 中连接本地词典与在线翻译。保留插件 ID、词典路径、资源配置、生词记录和旧备份格式，支持覆盖升级。
 
 - 新增 Google、Microsoft Edge、有道网页体验与 MyMemory 四种实验性在线翻译。无需填写 API 密钥，默认关闭，按来源单独开启。
 - 统一排列本地词典与翻译引擎，支持当前来源、依次回退、联合查询；本地有界并行，分来源渐进显示。
@@ -8,7 +17,7 @@ Local Dictionary 更名为 **LexiBridge · 词译桥**，在 Zotero 中连接本
 - 弹窗标题栏空白处可拖动，历史、来源切换和异步更新保持位置。
 - 本地和在线成功结果隐藏诊断；未命中、错误、限流只显示对应来源。
 - 修复关闭阅读器后失效工具栏节点阻断后续界面更新。
-- 更新 README、封面、查词动图与展示页，旧首页跳转至 [词译桥](https://noahxie83.github.io/zotero-local-dictionary/lexibridge/)。
+- 更新 README、封面、查词动图与展示页，旧首页跳转至 [词译桥](https://noahxie83.github.io/zotero-lexibridge/lexibridge/)。
 
 安装 `lexibridge-1.3.0.xpi`；如果 Zotero 提示则重启。在线查询最多 256 字符、16 个词，MyMemory 固定英译简中。在线服务可能变化或限流，开启后查询文本发送给对应服务。插件不附带词典。
 
@@ -16,12 +25,12 @@ Local Dictionary 更名为 **LexiBridge · 词译桥**，在 Zotero 中连接本
 
 ## 1.2.2 · 仓库名称与地址迁移
 
-- GitHub 仓库更名为 `Noahxie83/zotero-local-dictionary`，与 Local Dictionary 及多格式支持一致。
+- GitHub 仓库更名为 `Noahxie83/zotero-local-dictionary`，同步多格式支持的说明。
 - 同步安装、自动更新、GitHub Pages、使用指南与历史版本入口。
 - 保留插件 ID、旧设置与生词数据，已有版本可覆盖升级。
 - 核对 zotero-addons-scraper 的收录和 XPI 解析要求，提供保留 `reader` 标签的上游条目改名补丁；上游收录更新需另行合并。
 
-安装 `local-dictionary-1.2.2.xpi` 覆盖旧版后重启 Zotero。新网站：[在线示例](https://noahxie83.github.io/zotero-local-dictionary/)。迁移与收录说明见 [仓库改名](docs/REPOSITORY_RENAME.md)。
+安装 `local-dictionary-1.2.2.xpi` 覆盖旧版后重启 Zotero。新网站：[在线示例](https://noahxie83.github.io/zotero-lexibridge/)。迁移与收录说明见 [仓库改名](docs/REPOSITORY_RENAME.md)。
 
 验证：78 项自动测试通过，插件与网站构建成功；改名后旧仓库 API、历史安装包下载和旧更新清单可访问。本版修改名称与地址，实际插件代码沿用 1.2.1。
 
@@ -38,10 +47,10 @@ Local Dictionary 更名为 **LexiBridge · 词译桥**，在 Zotero 中连接本
 
 验证：78 项自动测试与 33 项 Windows Zotero 10.0.6 隔离检查通过。展示页完成桌面、窄屏与深色检查；Lighthouse 手机模拟性能 99，其余三项 100。
 
-## 1.2.0 — Local Dictionary · 本地词典
+## 1.2.0 · 多格式本地词典
 
 - 支持 MDX、StarDict（`.ifo`）和 DSL（`.dsl`/`.dsl.dz`）；StarDict 同义词、压缩索引与 Dictzip 按块读取，DSL 常见标记、内部引用和外置图片/发音。
-- 产品由 Local MDX 更名为 Local Dictionary；保留插件 ID、更新地址和原设置，可覆盖升级。
+- 统一产品命名；保留插件 ID、更新地址和原设置，可覆盖升级。
 - 修复不可见字符取词、坏词典切换覆盖状态、MDD 缺失资源反复解压和依赖告警。
 - 增加词形还原、回退/联合查询、手动输入/快捷键、历史/固定、生词/笔记、CSV/Anki 导出、诊断、主题/尺寸/发音偏好、拼写/词目浏览、多目录/优先级和备份迁移。
 - 发布前按 Standards/Spec 两路审查并整改缓存竞态、坏生词备份、资源池、共享弹窗预算、选区/手动上下文、DSL 转义、根目录迁移和部分备份问题。
@@ -52,7 +61,7 @@ Local Dictionary 更名为 **LexiBridge · 词译桥**，在 Zotero 中连接本
 
 ## 1.1.3 — 插件图标
 
-- 将 Local MDX 的“书本＋放大镜”标识用于插件管理器和设置页。
+- 将“书本＋放大镜”标识用于插件管理器和设置页。
 - 使用可缩放 SVG，为不同显示尺寸提供同一图标。
 - 沿用 1.1.2 的查词、资源读取、批注与音频功能。
 

diff --git a/docs/CHANGES.md b/docs/CHANGES.md
@@ -1,6 +1,10 @@
 # 功能与版本变更
 
-LexiBridge 词译桥原名 Local Dictionary / Local MDX。本页汇总 0.1.0 至 1.3.0 的变化；恢复和回退步骤见 [复原教程](RESTORE.md)。
+本页汇总 LexiBridge 词译桥 0.1.0 至 1.3.1 的变化；恢复和回退步骤见 [复原教程](RESTORE.md)。
+
+## 1.3.1 维护更新
+
+统一仓库、展示页、下载和更新地址，精简公开名称与标识，保持设置兼容。见 [升级说明](UPGRADE_1.3.1.md)。
 
 ## 1.3.0 新增
 
@@ -46,10 +50,11 @@ LexiBridge 词译桥原名 Local Dictionary / Local MDX。本页汇总 0.1.0 至
 | 1.1.0 | 合并查词与批注菜单、8 色/高亮/下划线、自带菜单恢复、内置 Speex 解码器；去除添加笔记 |
 | 1.1.1 | 修复 `Missing 'color' property`，完整批注数据复制到 Zotero 阅读器窗口 |
 | 1.1.2 | 修复 LZO 精确边界、合法别名、失败目录切换、资源来源错误回退、Speex 累计时长；普通音频单次读取、MDD 定位/缺失缓存与统计、独立资源失效；33 项回归与独立 Zotero 保存验收 |
-| 1.1.3 | 插件管理器和设置页采用 Local MDX 的“书本＋放大镜”SVG 图标 |
-| 1.2.0 | 更名 Local Dictionary；修复不可见字符、坏词典切换、MDD 缺失查找与依赖；加入九项查询/阅读扩展、StarDict/DSL 及设置迁移；验证详见 [升级说明](UPGRADE_1.2.0.md) 与 [审查整改](REVIEW_FIXES_1.2.0.md) |
+| 1.1.3 | 插件管理器和设置页采用“书本＋放大镜”SVG 图标 |
+| 1.2.0 | 统一命名；修复不可见字符、坏词典切换、MDD 缺失查找与依赖；加入九项查询/阅读扩展、StarDict/DSL 及设置迁移；验证详见 [升级说明](UPGRADE_1.2.0.md) 与 [审查整改](REVIEW_FIXES_1.2.0.md) |
 | 1.2.1 | 重做弹窗与设置页的排版，统一浅色/深色主题，补齐查询状态和小高度滚动；更新 README 封面与 GitHub Pages，加入完整界面预览；见 [界面设计](UI_DESIGN.md) |
-| 1.3.0 | 更名词译桥，四种在线翻译、混合来源排序、有界并行与渐进结果、点击/划选独立开关、拖动弹窗、成功隐藏诊断；修复失效工具栏。见 [升级说明](UPGRADE_1.3.0.md) |
-| 1.2.2 | GitHub 仓库更名为 zotero-local-dictionary，同步 Pages、下载与更新地址，保留插件 ID；见 [仓库改名与插件收录](REPOSITORY_RENAME.md) |
+| 1.2.2 | 迁移 GitHub 仓库，同步 Pages、下载与更新地址，保留插件 ID；见 [仓库改名与插件收录](REPOSITORY_RENAME.md) |
+| 1.3.0 | 四种在线翻译、混合来源排序、有界并行与渐进结果、点击/划选独立开关、拖动弹窗、成功隐藏诊断；修复失效工具栏。见 [升级说明](UPGRADE_1.3.0.md) |
+| 1.3.1 | 仓库、下载、更新与展示页统一地址，精简公开说明并保留覆盖升级兼容性；见 [升级说明](UPGRADE_1.3.1.md) |
 
-各版对应的源代码快照、安装包与原说明见 [Releases](https://github.com/Noahxie83/zotero-local-dictionary/releases)。历史快照保持原样，详细当时记录见 [发布说明](../RELEASE_NOTES.md)；1.1.2 验证证据见 [审查整改](REVIEW_FIXES_1.1.2.md)。
+各版对应的源代码快照、安装包与原说明见 [Releases](https://github.com/Noahxie83/zotero-lexibridge/releases)。历史快照保持原样，详细当时记录见 [发布说明](../RELEASE_NOTES.md)；1.1.2 验证证据见 [审查整改](REVIEW_FIXES_1.1.2.md)。

diff --git a/docs/RESTORE.md b/docs/RESTORE.md
@@ -45,12 +45,10 @@
 
 1.1.2 中新目录读取失败会保留上一份有效选择；成功选择空目录则列表为空，可重新选择原目录恢复。
 
-## 备份、迁移与新名称
+## 备份与迁移
 
-1.3.0 更名为 **LexiBridge · 词译桥**，设置入口为“词译桥”。仍使用原插件 ID、备份格式和设置前缀，可覆盖升级，在线来源默认关闭。
+在“词译桥”设置中管理备份与迁移。支持覆盖升级，词典配置和生词记录保留，在线来源默认关闭。
 
-
-1.2.0 更名为 **Local Dictionary · 本地词典**，设置入口为“本地词典”，旧插件 ID 和词典偏好保留。新包 `local-dictionary-1.2.0.xpi` 可覆盖旧版，不需要卸载后重新选择词典。
 
 在设置中“备份设置与生词…”保存 JSON。迁移后“导入备份…”；原目录不存在时选择新位置，验证成功后应用。取消或坏词典不会覆盖当前设置。备份包含生词和文献上下文，请按需保管；词典、资源和 PDF 文件需要另行复制。
 
@@ -62,17 +60,17 @@
 
 ## 回退到历史插件版本
 
-1. 从 [所有 Releases](https://github.com/Noahxie83/zotero-local-dictionary/releases) 下载目标版本的 **`.xpi`**，不要把源码 ZIP 当安装包。
+1. 从 [所有 Releases](https://github.com/Noahxie83/zotero-lexibridge/releases) 下载目标版本的 **`.xpi`**，不要把源码 ZIP 当安装包。
 2. 工具 → 插件 → 齿轮 → 从文件安装插件，选择旧 XPI。若 Zotero 拒绝覆盖低版本，先卸载本插件，重启后安装目标 XPI。
 3. 重启 Zotero并重新打开 PDF，核对版本和词典选择。
 4. 如果旧版自动更新到较新版本，在插件管理器为该扩展关闭自动更新；重新使用最新版本时恢复自动更新。
 
 | 想回到的功能范围 | 历史版本 |
 | --- | --- |
-| 最初的本地点击查询/词典切换 | [0.1.0](https://github.com/Noahxie83/zotero-local-dictionary/releases/tag/v0.1.0) |
-| 文字排版优化 | [0.1.2](https://github.com/Noahxie83/zotero-local-dictionary/releases/tag/v0.1.2) |
-| 原有 CSS/MDD 资源与编号修复，尚无划选 | [0.2.1](https://github.com/Noahxie83/zotero-local-dictionary/releases/tag/v0.2.1) |
-| 划选与断行候选，尚无合并批注菜单/内置 Speex | [1.0.0](https://github.com/Noahxie83/zotero-local-dictionary/releases/tag/v1.0.0) |
+| 最初的本地点击查询/词典切换 | [0.1.0](https://github.com/Noahxie83/zotero-lexibridge/releases/tag/v0.1.0) |
+| 文字排版优化 | [0.1.2](https://github.com/Noahxie83/zotero-lexibridge/releases/tag/v0.1.2) |
+| 原有 CSS/MDD 资源与编号修复，尚无划选 | [0.2.1](https://github.com/Noahxie83/zotero-lexibridge/releases/tag/v0.2.1) |
+| 划选与断行候选，尚无合并批注菜单/内置 Speex | [1.0.0](https://github.com/Noahxie83/zotero-lexibridge/releases/tag/v1.0.0) |
 
 历史版本保留各自实现和已知问题，**推荐使用稳定版 1.2.0**。1.1.0 存在批注颜色传递问题，1.1.1 尚未包含 1.1.2 的五项修复；可先调整上述设置恢复所需操作。
 

diff --git a/docs/UPGRADE_1.3.1.md b/docs/UPGRADE_1.3.1.md
@@ -1,0 +1,16 @@
+# LexiBridge 1.3.1 升级说明
+
+本版统一词译桥的仓库、下载、更新与展示页地址，并精简公开说明。
+
+- 仓库为 [`Noahxie83/zotero-lexibridge`](https://github.com/Noahxie83/zotero-lexibridge)。
+- 展示页为 [词译桥交互示例](https://noahxie83.github.io/zotero-lexibridge/lexibridge/)。按维护者选择，仅维护新网页地址。
+- README 删除个人主页入口、内部插件标识和历史名称介绍，使用当前产品名称。
+- 安装包沿用既有插件身份、设置前缀和备份格式，可覆盖升级，保留词典目录、资源配置、生词与查询设置。
+- 新版安装包使用当前仓库的更新清单；旧版更新清单地址由 GitHub 仓库改名重定向继续兼容。
+- 设置备份格式保持不变，仅将导入错误提示中的产品名称改为词译桥。
+
+下载 `lexibridge-1.3.1.xpi`，在 Zotero 中选择“工具 → 插件 → 齿轮 → 从文件安装插件”。如提示重启，重启 Zotero。
+
+四个在线翻译适配器及查询调度沿用已验收实现。来源默认关闭、文本发送说明、限流与取消行为保持不变；本次维护不重新发送翻译探测请求。
+
+功能、兼容范围和此前的实机证据见 [1.3 系列功能说明](UPGRADE_1.3.0.md)。仓库与收录说明见 [项目地址与插件收录](REPOSITORY_RENAME.md)。本轮构建及迁移验证另记于 `docs/verification/repository-migration-1.3.1.json`。

diff --git a/docs/UPGRADE_1.2.0.md b/docs/UPGRADE_1.2.0.md
@@ -1,6 +1,6 @@
-# Local Dictionary 1.2.0 · 本次改进与验证
+# 1.2.0 · 多格式词典改进与验证
 
-产品原名 Local MDX，现因支持 MDX、StarDict 和 DSL 更名为 **Local Dictionary · 本地词典**。插件 ID、更新地址、原偏好命名空间和旧 API 别名保留，以便覆盖安装沿用设置。新安装包和源码 ZIP 使用 `local-dictionary` 名称；仓库地址与历史资产保留。安装包见 [1.2.0 Release](https://github.com/Noahxie83/zotero-local-dictionary/releases/tag/v1.2.0)。
+本版新增 MDX、StarDict 和 DSL 多格式支持，保留升级兼容性。历史安装包和源码文件名保持不变，见 [1.2.0 Release](https://github.com/Noahxie83/zotero-lexibridge/releases/tag/v1.2.0)。
 
 以上为 1.2.0 发布时的迁移说明。1.2.2 起 GitHub 仓库更名为 `zotero-local-dictionary`，新安装包使用新更新地址；插件 ID 与旧设置继续兼容，见 [仓库改名与插件收录](REPOSITORY_RENAME.md)。
 
